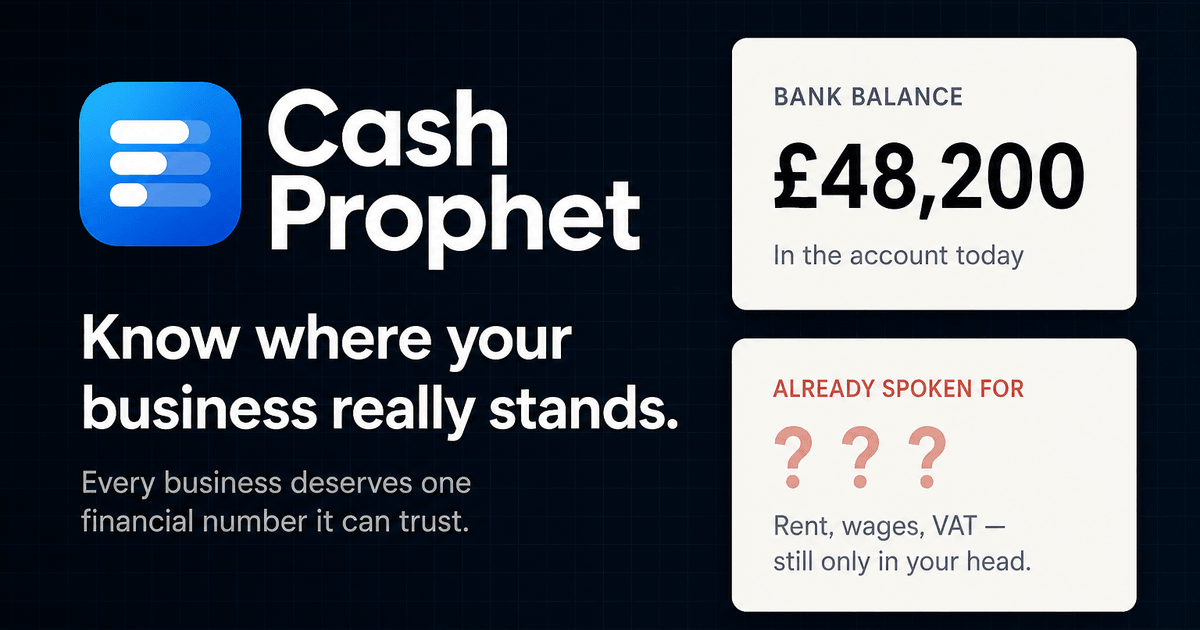
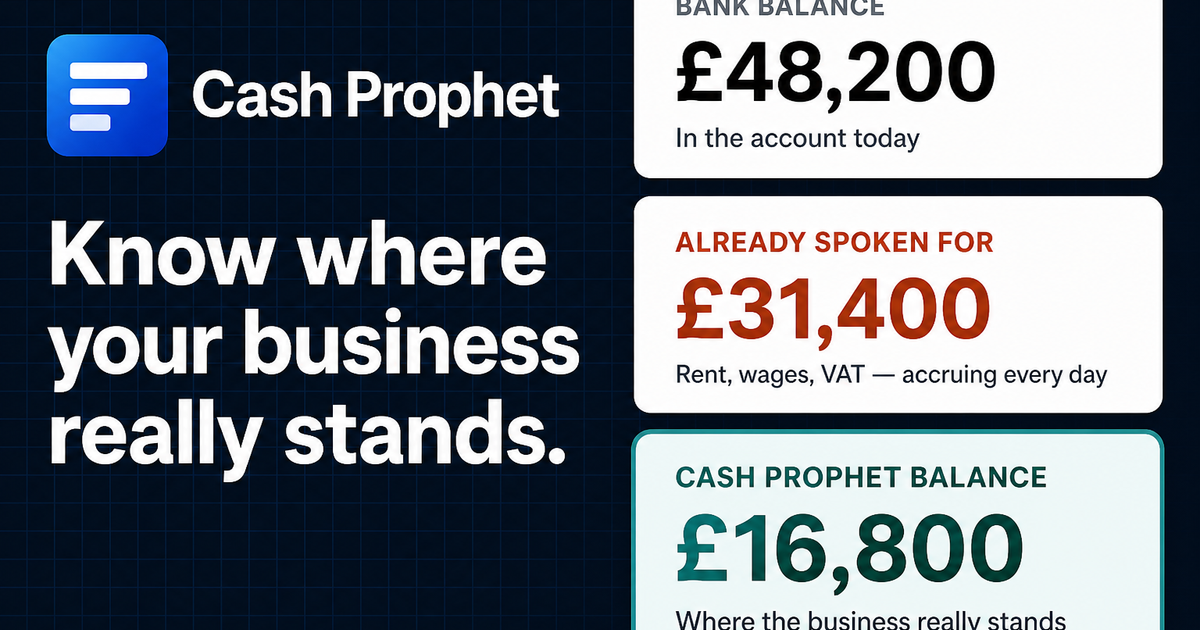
Refresh share image to resolve Cash Prophet Balance and simplify pricing headlines.

diff --git a/index.html b/index.html
@@ -33,7 +33,7 @@
     <meta property="og:image:height" content="630" />
     <meta
       property="og:image:alt"
-      content="Cash Prophet — Know where your business really stands. Bank balance versus money already spoken for."
+      content="Cash Prophet — Bank balance versus money already spoken for, resolved to your Cash Prophet Balance."
     />
     <meta name="twitter:card" content="summary_large_image" />
     <meta name="twitter:title" content="Cash Prophet | A daily financial position you can trust" />
@@ -44,7 +44,7 @@
     <meta name="twitter:image" content="https://www.cashprophet.co.uk/og-image.webp" />
     <meta
       name="twitter:image:alt"
-      content="Cash Prophet — Know where your business really stands. Bank balance versus money already spoken for."
+      content="Cash Prophet — Bank balance versus money already spoken for, resolved to your Cash Prophet Balance."
     />
     <link rel="canonical" href="https://www.cashprophet.co.uk/" />
     <link rel="preconnect" href="https://fonts.googleapis.com" />

diff --git a/src/config/subscriptionTiers.ts b/src/config/subscriptionTiers.ts
@@ -68,11 +68,10 @@ export const VAT_PRICE_FOOTNOTE =
 
 export const ANNUAL_SAVINGS_COPY = 'Pay annually and get 2 months free.'
 
-export const PRICING_HEADLINE =
-  'Plans that grow with how your business is structured.'
+export const PRICING_HEADLINE = 'Simple plans.'
 
 export const PRICING_SUBHEADLINE =
-  'Start with one business. Add venues when you expand. Move to Multi-business / Group when you operate more than one company. Every plan supports clearer day-to-day financial decisions.'
+  'Solo, multi-site, or more than one business. Start free — we’ll recommend a plan after your trial.'
 
 export const PRICING_FOOTNOTE =
   'Not sure which plan you need? Start free and set up however you like. After your trial, we recommend the plan that matches what you have built. Prices exclude VAT.'

diff --git a/src/content/marketingSeo.ts b/src/content/marketingSeo.ts
@@ -2,7 +2,7 @@
 
 export const SITE_OG_IMAGE = '/og-image.webp' as const
 export const SITE_OG_IMAGE_ALT =
-  'Cash Prophet — Know where your business really stands. Bank balance versus money already spoken for.' as const
+  'Cash Prophet — Bank balance versus money already spoken for, resolved to your Cash Prophet Balance.' as const
 export const SITE_OG_IMAGE_WIDTH = 1200
 export const SITE_OG_IMAGE_HEIGHT = 630
 
